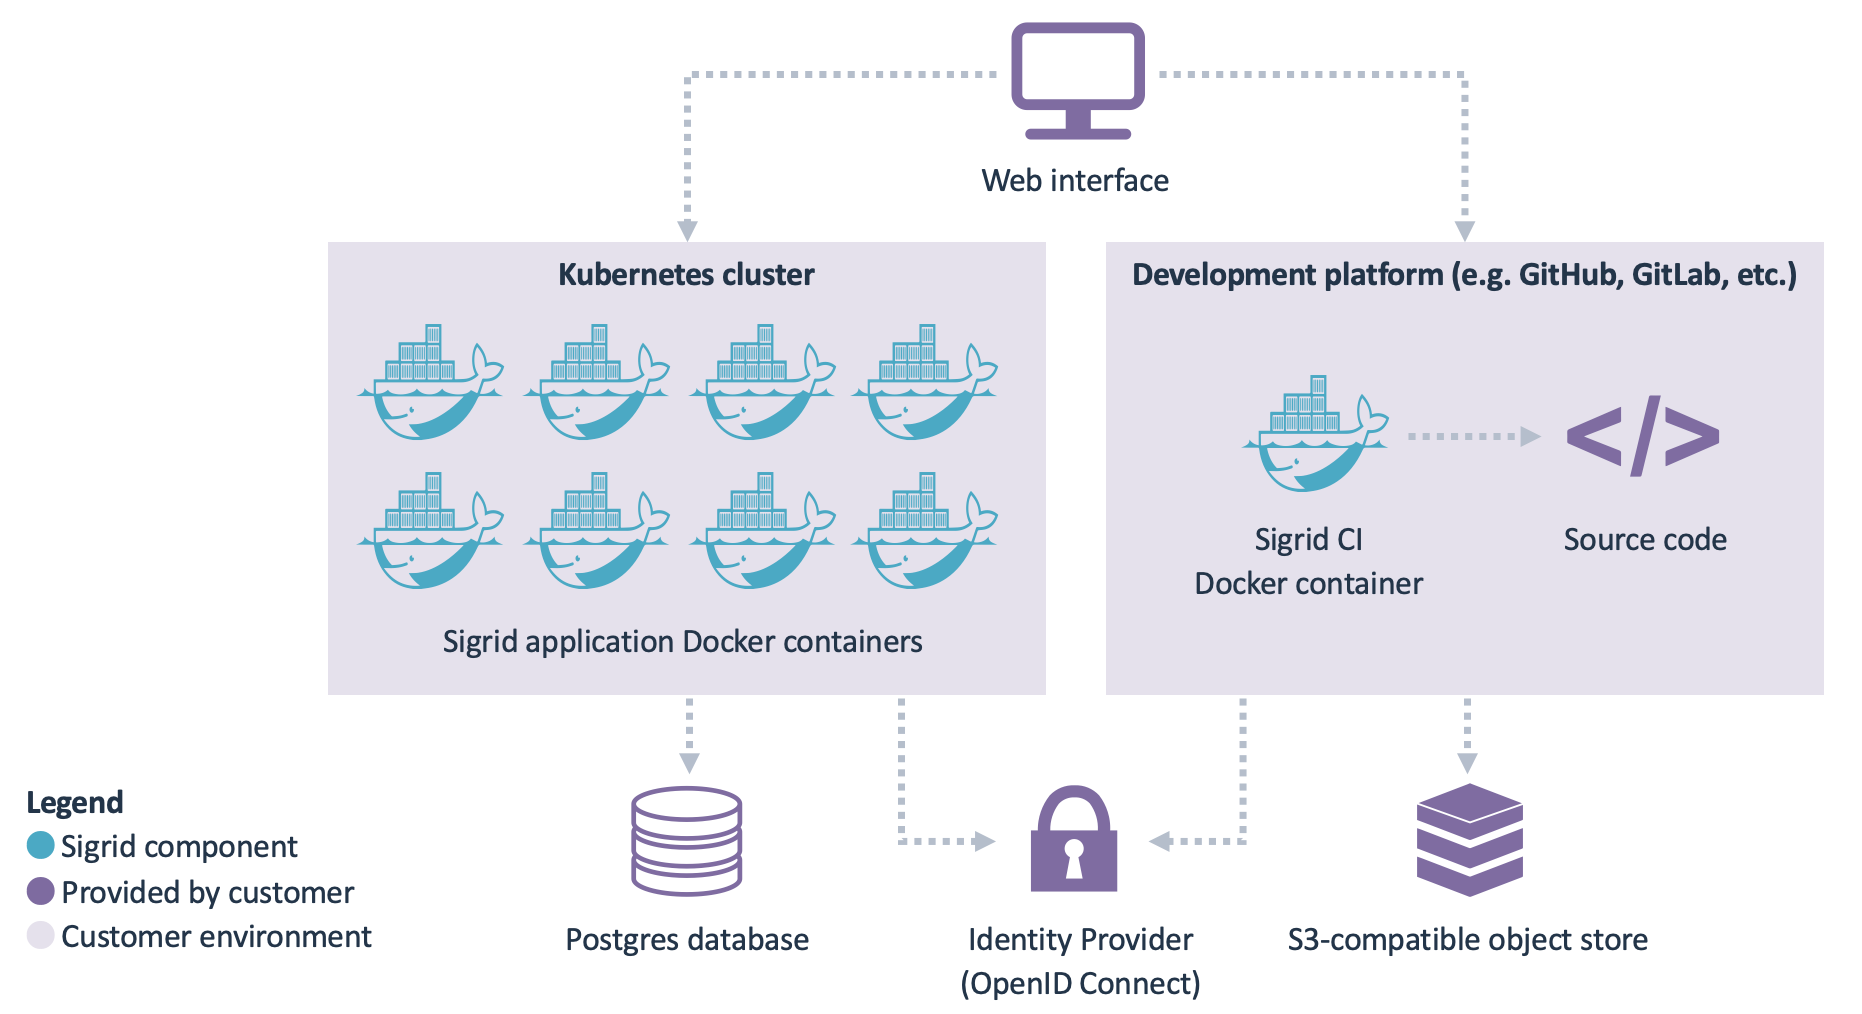
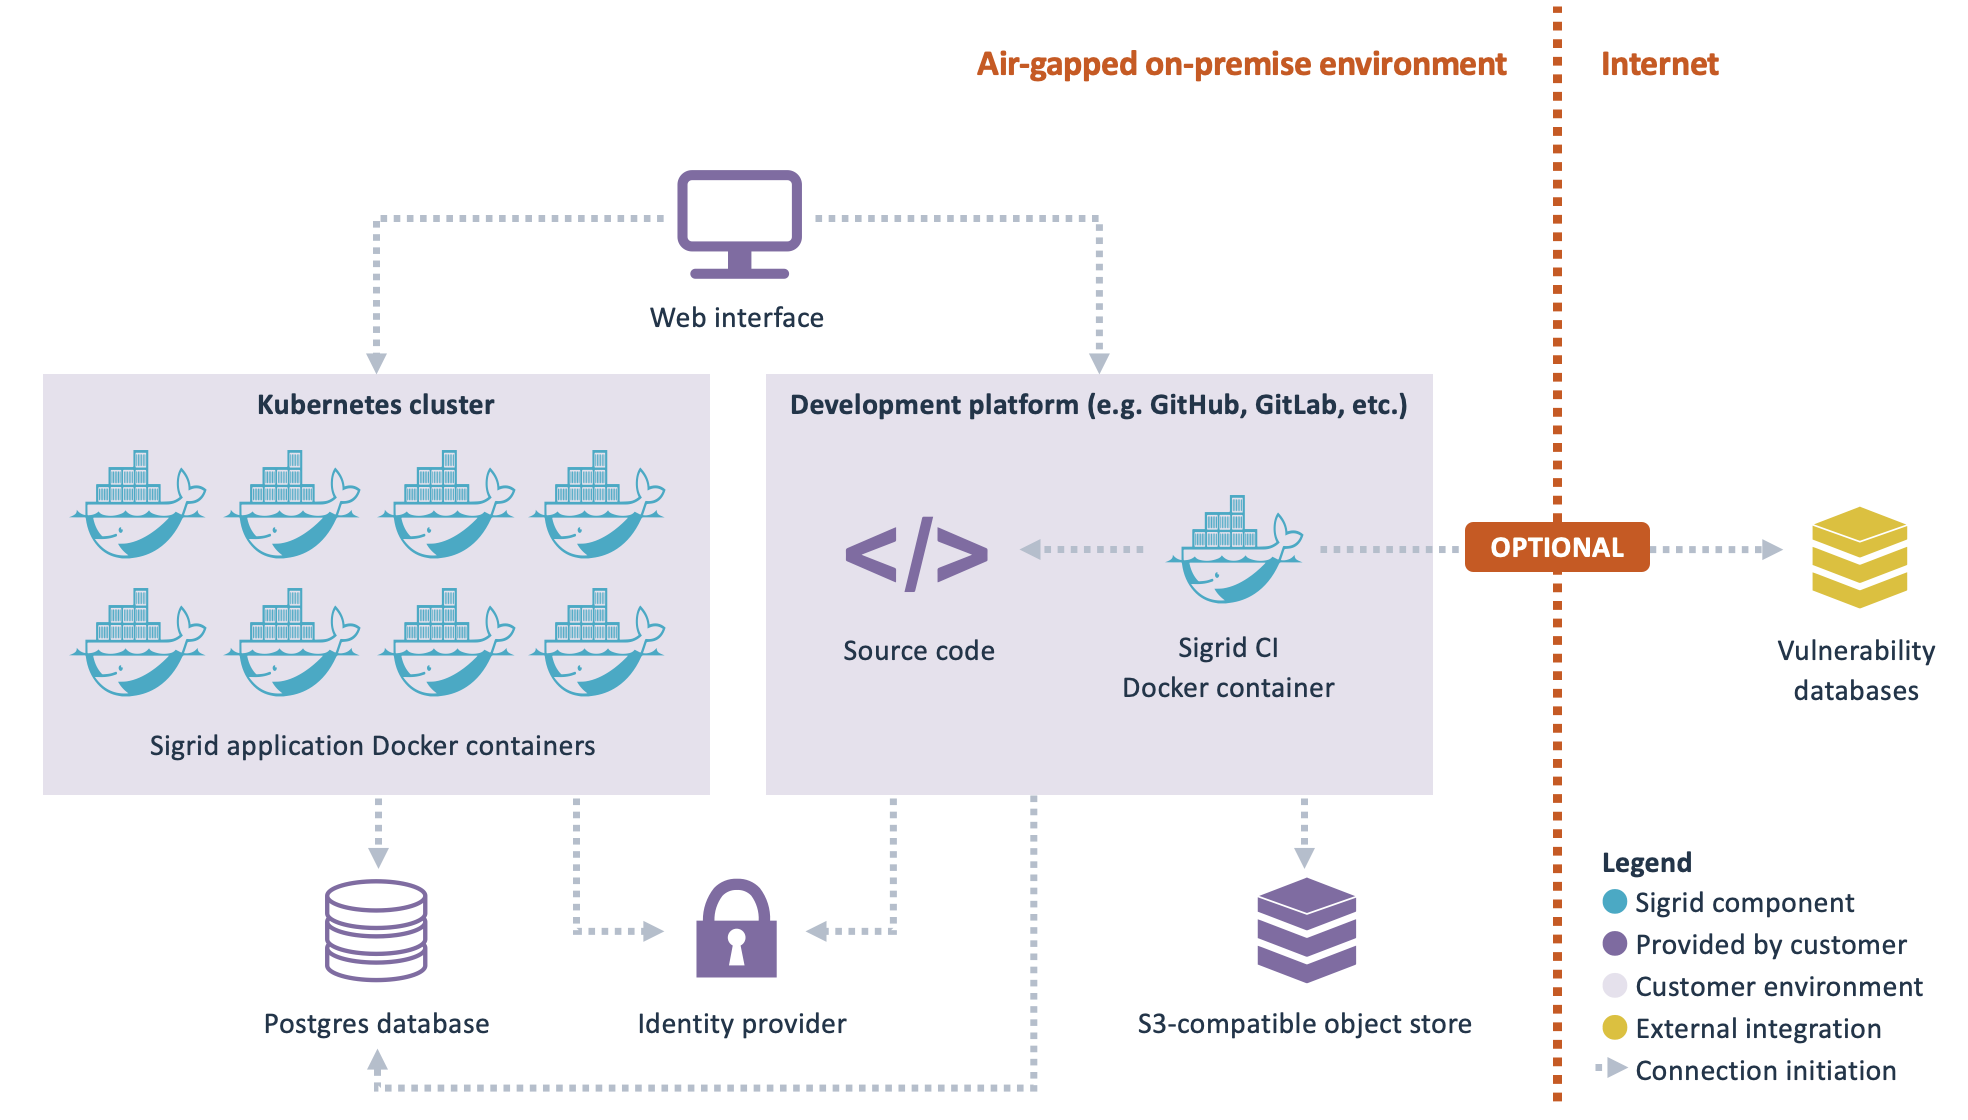
On-premise: Update overview picture, make bullet list with requirements a bit nicer.

diff --git a/docs/_includes/stylesheet.css b/docs/_includes/stylesheet.css
@@ -41,13 +41,18 @@ h3 {
 
 ul {
     list-style: none;
-    padding-left: 24px;
+    padding-left: 32px;
 }
 
 li::before {
     content: '\25A0';
     color: #DFC101;
     padding-right: 8px;
+    margin-left: -1em;
+}
+
+summary {
+    cursor: pointer;
 }
 
 .container {

diff --git a/docs/organization-integration/onpremise-integration.md b/docs/organization-integration/onpremise-integration.md
@@ -6,7 +6,7 @@ Most of this documentation refers to the software-as-a-service version of Sigrid
 
 ## High-level overview
 
-<img src="../images/onpremise-overview.png" width="550" />
+<img src="../images/onpremise-overview.png" width="600" />
 
 - Sigrid on-premise is based on [Docker containers](https://en.wikipedia.org/wiki/Docker_%28software%29). There are two types of containers:
   - Application containers that should be deployed permanently in a [Kubernetes](https://en.wikipedia.org/wiki/Kubernetes) cluster, based on a [Helm chart](https://helm.sh) that is provided by SIG.
